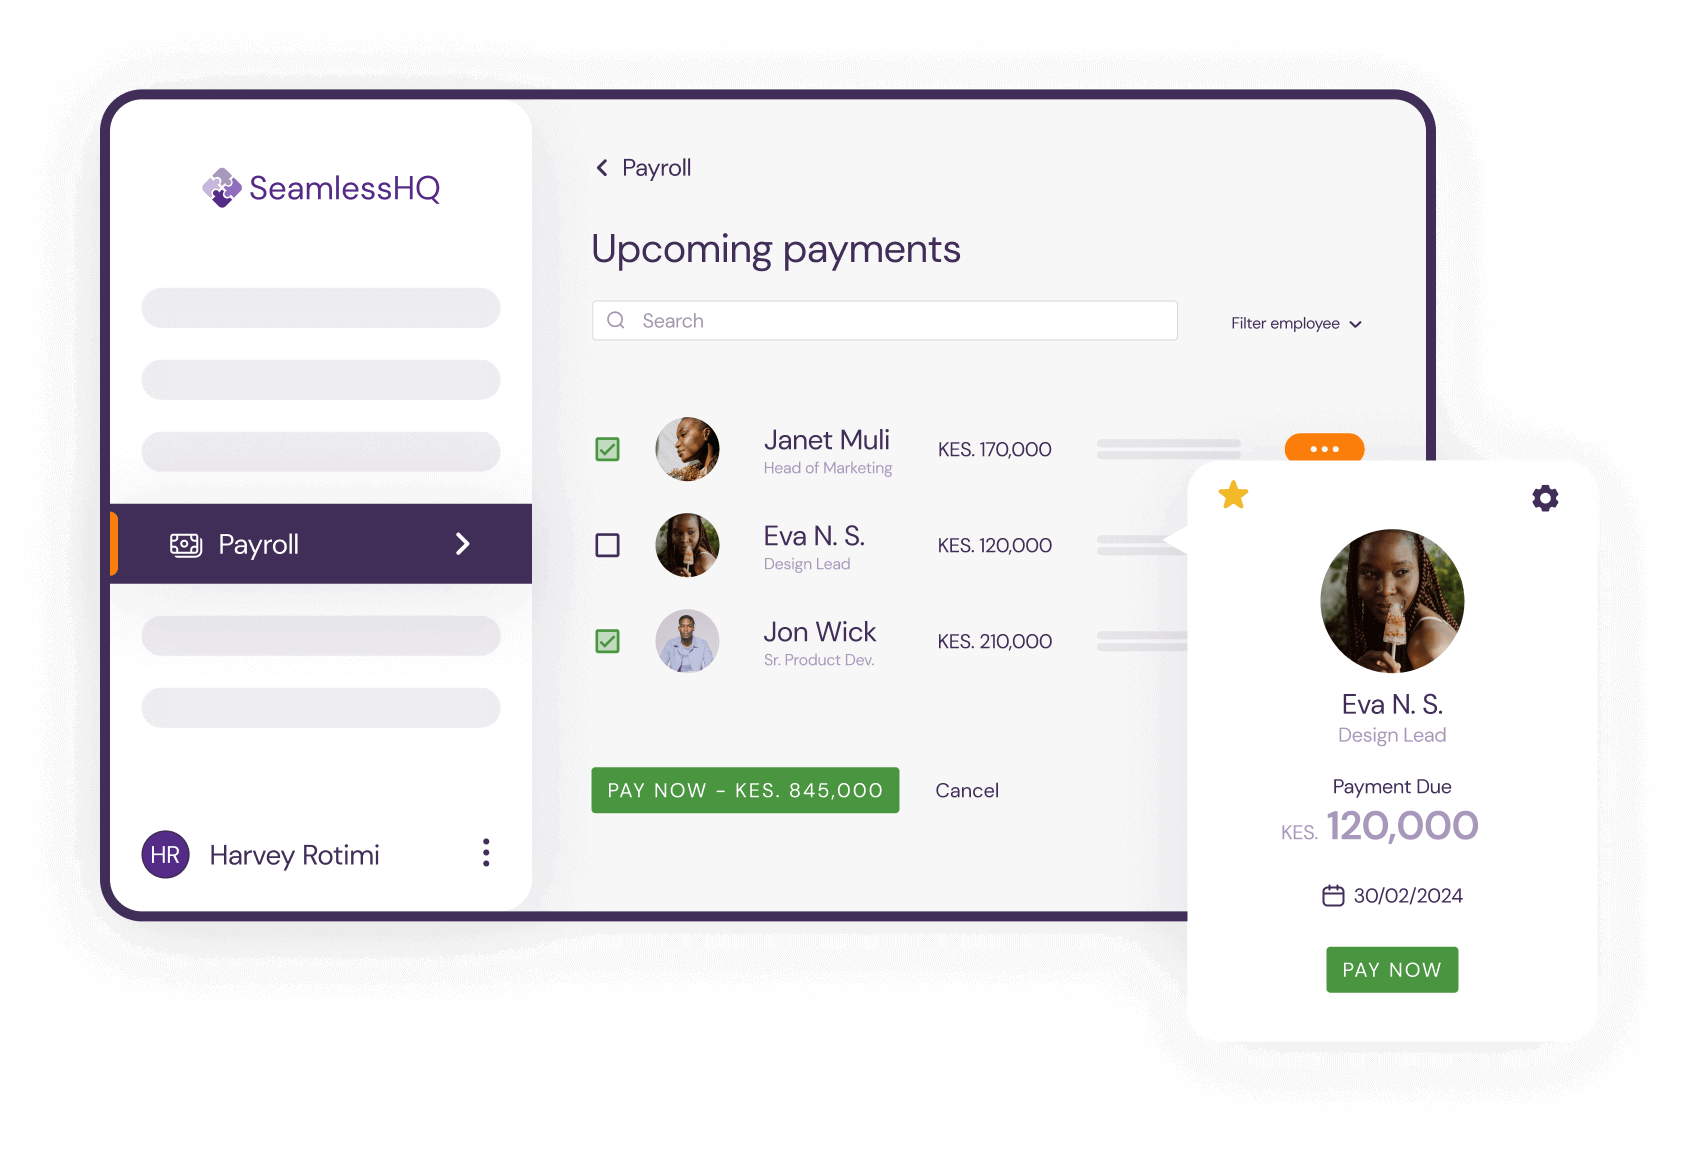
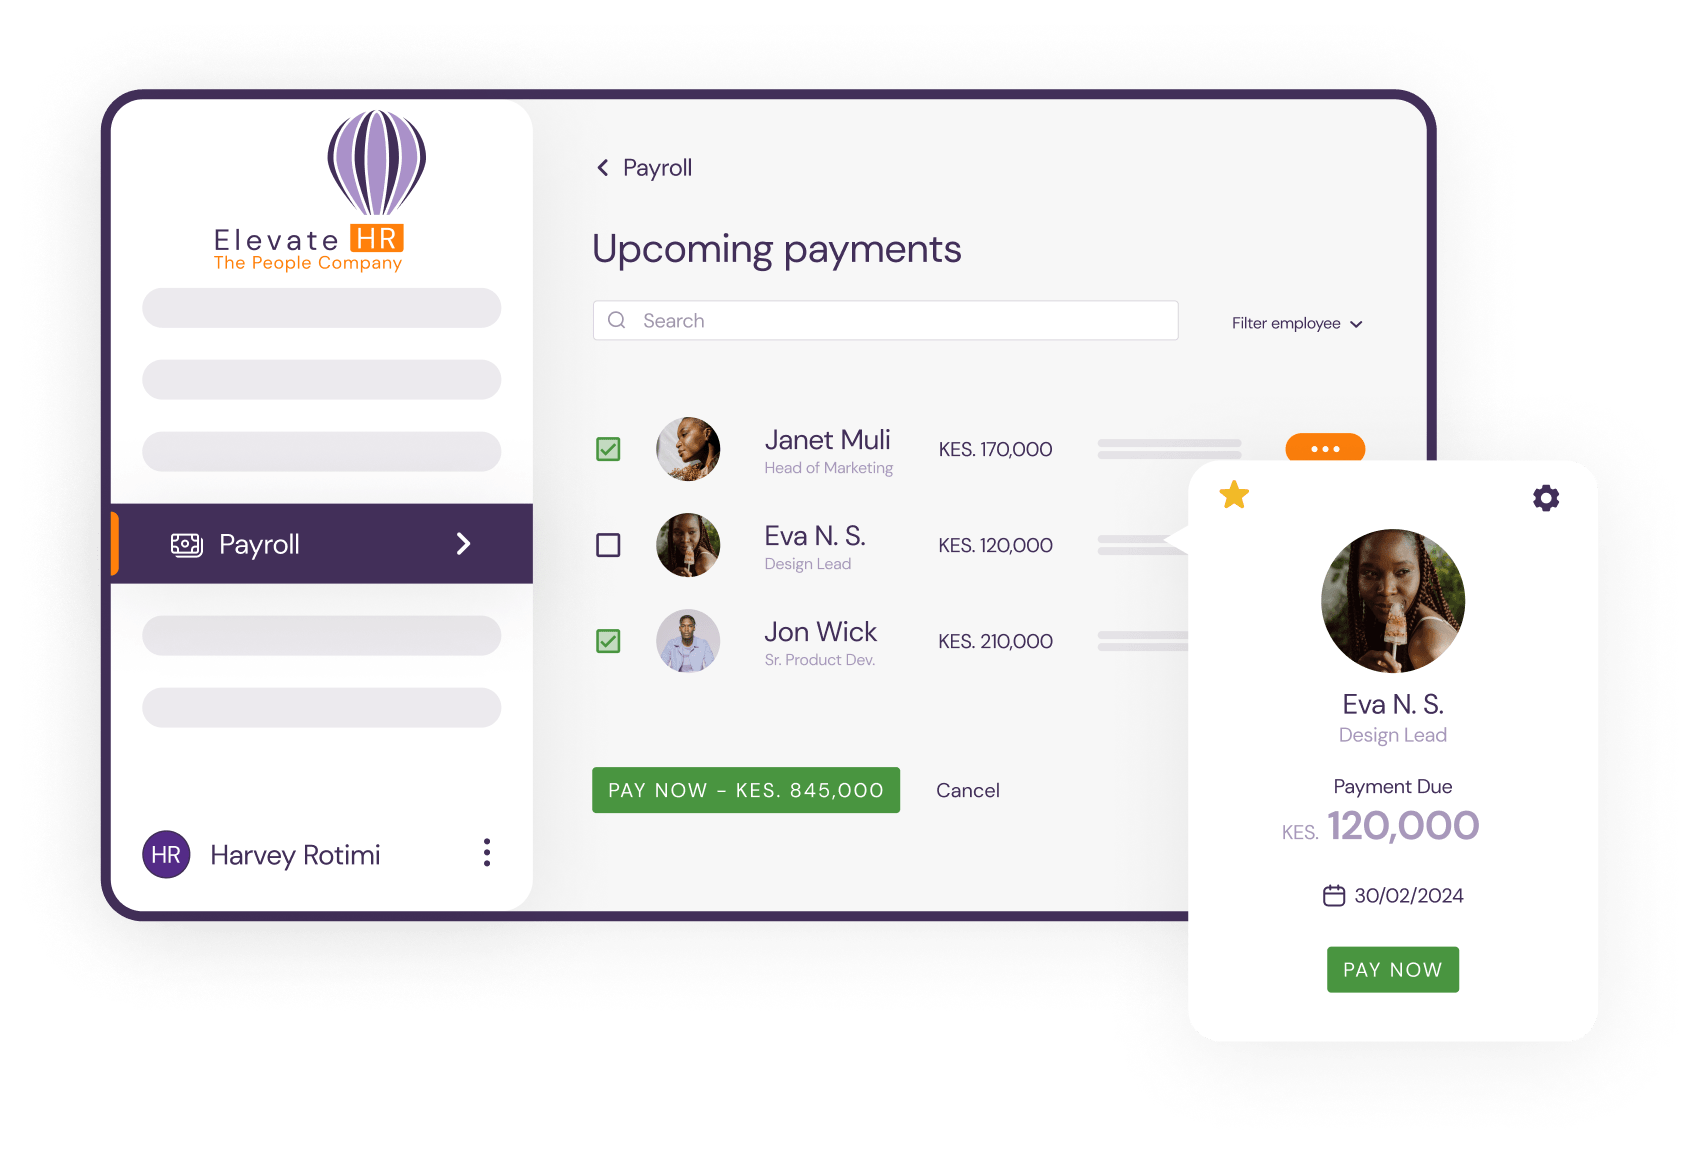
changes payroll picture to new elavarehr picture

diff --git a/index.html b/index.html
@@ -254,7 +254,7 @@
                     </div> <!-- end of col -->
                     <div class="col-lg-6 col-xl-6">
                         <div class="image-container">
-                            <img class="img-fluid phone_img" src="images/seamless/leave.png" alt="self service">
+                            <img class="img-fluid phone_img" src="images/seamless/leave_elavate.png" alt="self service">
                         </div> <!-- end of image-container -->
                     </div> <!-- end of col -->
                     
@@ -269,7 +269,7 @@
                 <div class="row">
                     <div class="col-lg-6 col-xl-7 desktop">
                         <div class="image-container">
-                            <img class="img-fluid" src="images/seamless/payroll.png" alt="payroll">
+                            <img class="img-fluid" src="images/seamless/payroll_elavate.png" alt="payroll">
                         </div> <!-- end of image-container -->
                     </div> <!-- end of col -->
                     <div class="col-lg-6 col-xl-5">
